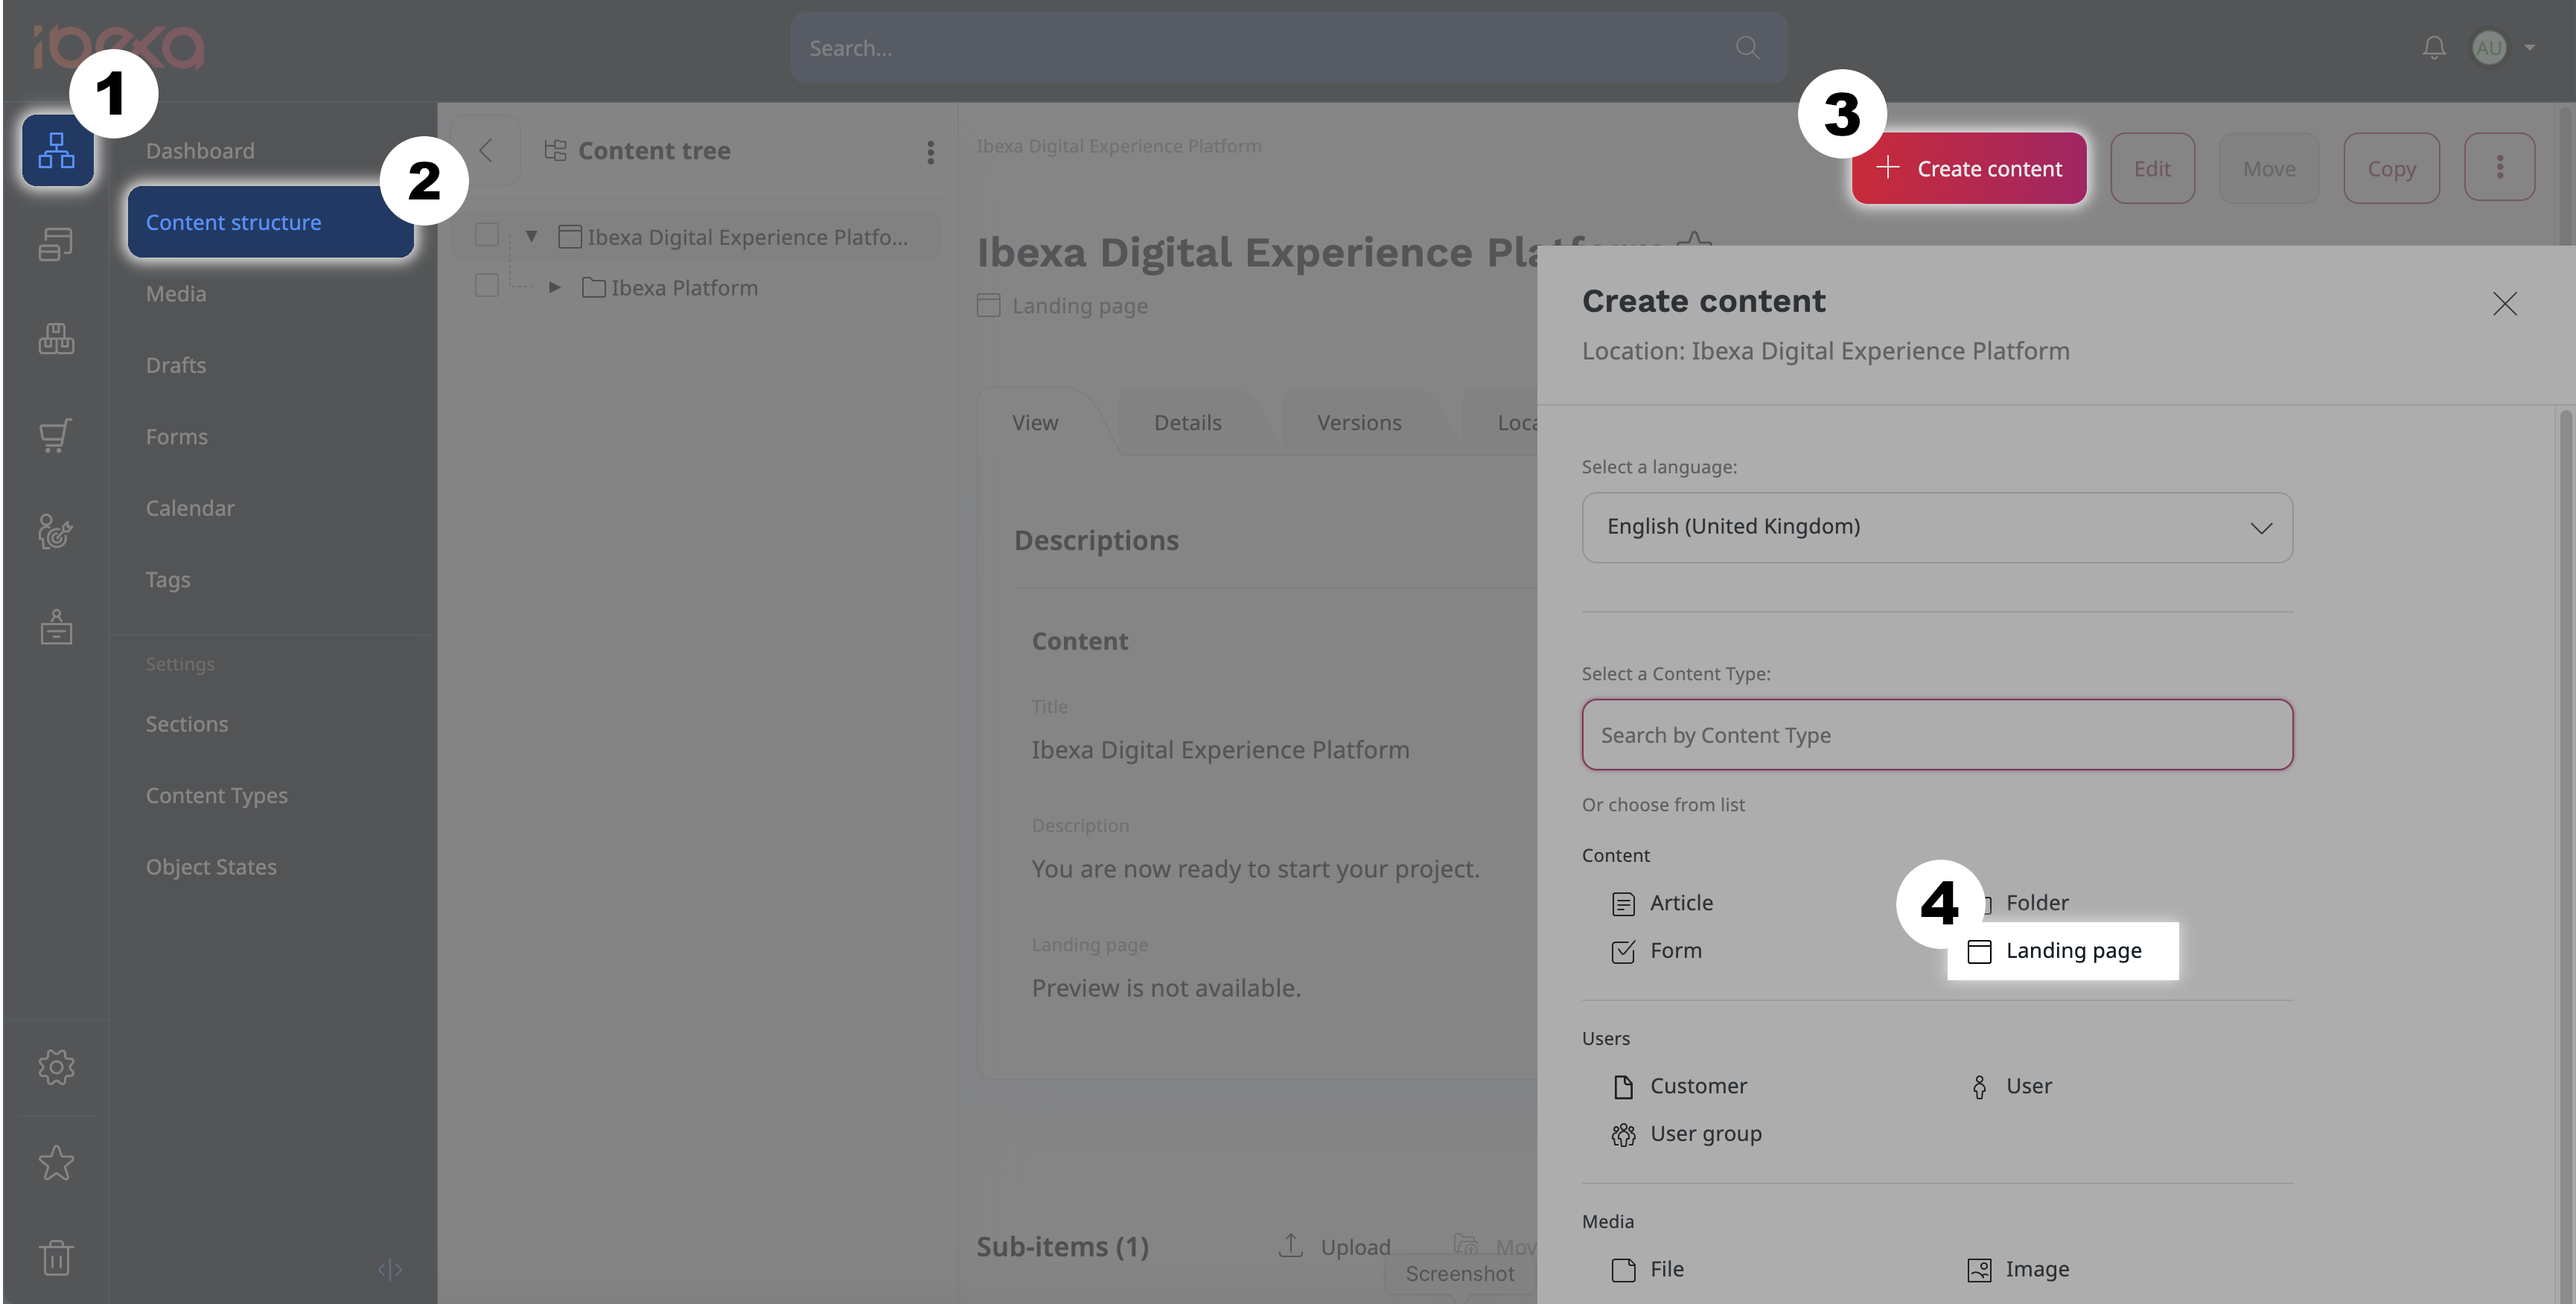
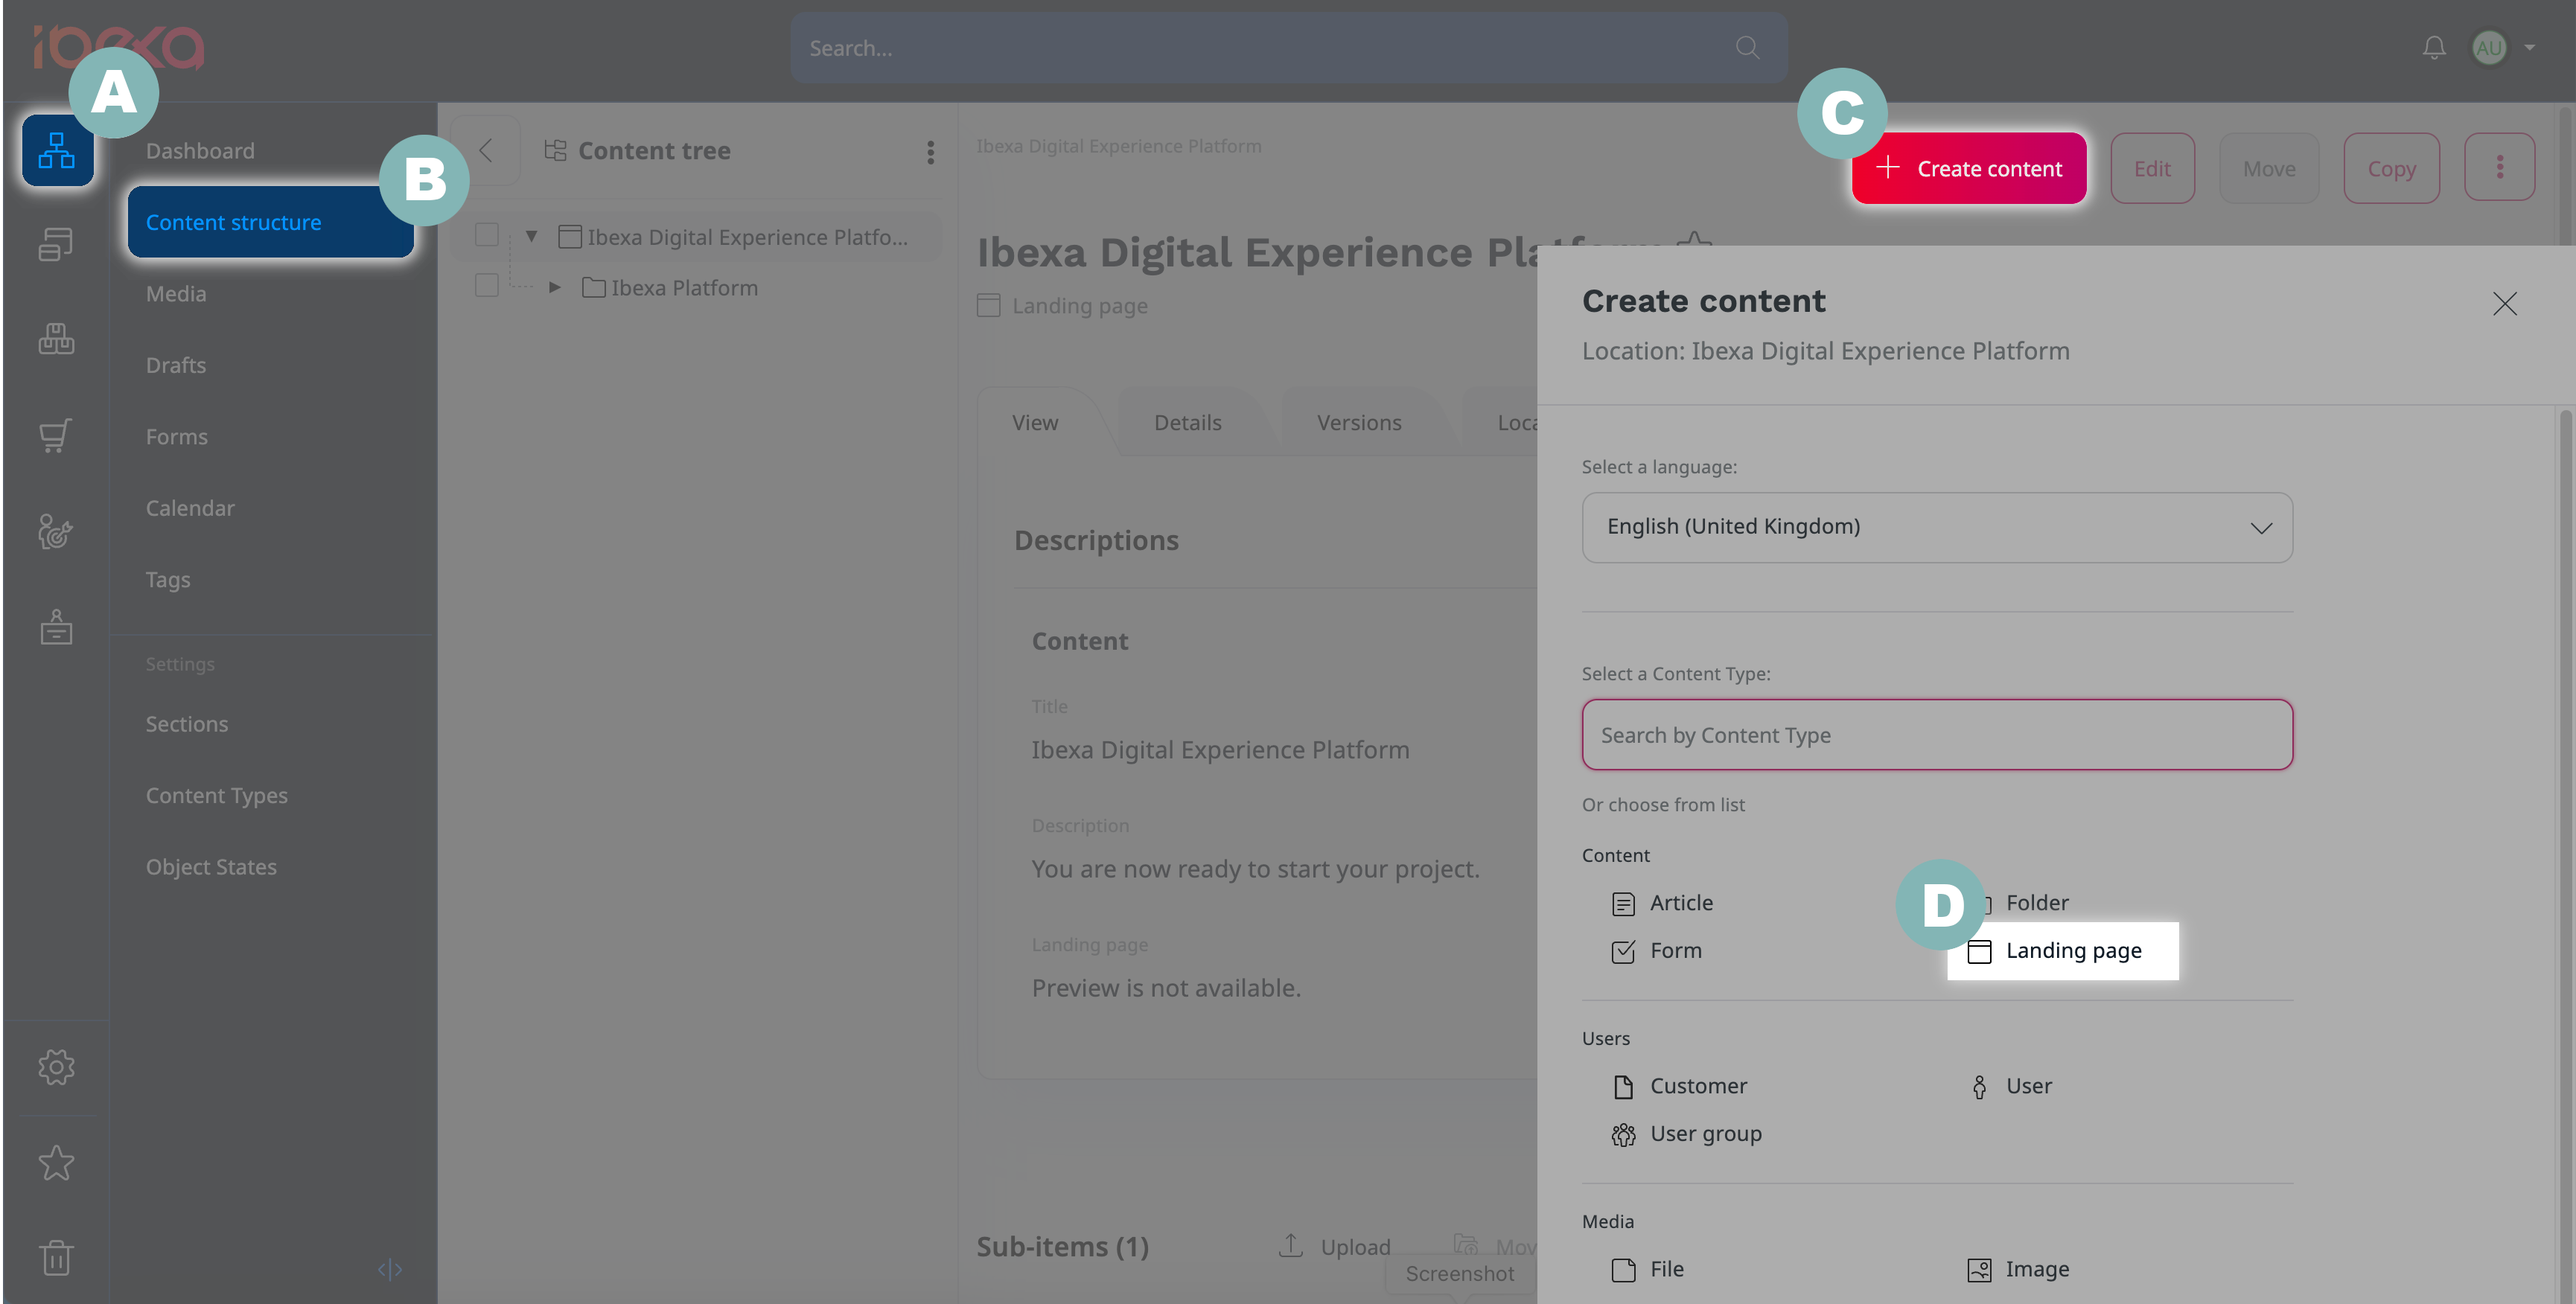
Fixes after doc-review

diff --git a/docs/content_management/pages/page_builder_guide.md b/docs/content_management/pages/page_builder_guide.md
@@ -7,7 +7,7 @@ edition: experience
 
 ## What is page
 
-[Page](pages.md) is a block-based type of content. You can create it and modify with a visual drag-and-drop editor - Page Builder.
+[Page](pages.md) is a block-based type of content. You can create and modify it with a visual drag-and-drop editor - Page Builder.
 Page is divided into zones into which you can drop various dynamic blocks.
 By editing pages you can customize the layout and content of your website.
 
@@ -15,22 +15,20 @@ By editing pages you can customize the layout and content of your website.
 
 To create a new page:
 
-1\. In the upper toolbar click **Content**.
+A\. In the left panel, go to **Content**.
 
-2\. Select **Content structure**.
+B\. Select **Content structure**.
 
-3\. On the right-side toolbar, click **Create content** and from the list of Content items select Landing Page.
+C\. On the right-side toolbar, click **Create content** and from the list of Content items select **Landing Page**.
 
-4\. Select the layout and click **Create**.
+D\. Select the layout and click **Create**.
 
 ![Create page](create_page.png)
-
-You can also add a new page in the Page Builder. Check 'Create page in Page Builder' section below.
 
 ### Edit page
 
 You can edit any existing page by using Page Builder. To do it, in the Back Office go to **Content** and select **Content structure**.
-Then, from the Content Tree choose the page that you want to edit and click **Edit**.
+Then, from the Content Tree choose the page and click **Edit**.
 
 ## What is Page Builder
 
@@ -85,7 +83,7 @@ F. Saving options
 |Save draft|Save the page draft*.|
 |Delete draft|Delete the page draft.|
 
-*To help you preserve your work, system saves drafts of Content items automatically. For more information, see [Autosave](https://doc.ibexa.co/projects/userguide/en/master/content_management/content_versions/#autosave).
+*To help you preserve your work, system saves drafts of Content items automatically. For more information, see [Autosave]([[= user_doc =]]/content_management/content_versions/#autosave).
 
 Page Builder has two main views that you can use while creating a page:
 
@@ -93,20 +91,13 @@ Page Builder has two main views that you can use while creating a page:
 
 ![Elements toolbar](elements_toolbar.png)
 
-- Structure view - shows a structure of the page, including its division into zones and the blocks that it contains. It follows the behavior of the content tree. Structure view has ability to reorder blocks using drag and drop.
+- Structure view - shows a structure of the page, including its division into zones and the blocks that it contains. It follows the behavior of the Content Tree. Structure view has ability to reorder blocks using drag and drop.
 
 ![Structure view](structure_view.png)
 
-#### Create page in Page Builder
-
-To open the Page Builder, click **Site** and select a website from the list that appears next to the List icon.
-On the Page Builder toolbar click the plus button and from the list select Landing Page.
-
 ##### Choose layout
 
-For newly created Page you can choose a [layout](https://doc.ibexa.co/projects/userguide/en/latest/content_management/configure_ct_field_settings/#available-page-layouts) which defines the available zones.
-
-![Switch layout](switch_layout_window.png)
+For newly created Page you can choose a [layout]([[= user_doc =]]/content_management/configure_ct_field_settings/#available-page-layouts) which defines the available zones.
 
 Applying a layout divides the Page into the defined zones. The zones are placeholders for Content items.
 
@@ -116,25 +107,27 @@ Now you are ready to add blocks of content to the Page.
 The page layouts that an editor has access to are up to you to choose.
 In the `Select layouts` section, you can select layouts that you want to be available for the Page.
 
+![Switch layout](switch_layout_window.png)
+
 The default, built-in Page layout has only one zone, but developers can create other layouts in configuration.
-For more information, see [Configure layout](https://doc.ibexa.co/en/latest/templating/render_content/render_page/#configure-layout).
+For more information, see [Configure layout](render_page.md#configure-layout).
 
 #### Add blocks
 
 To customize your page in Page Builder you need to add blocks.
 To do it, access Elements toolbar, drag page block that you want to use and drop it on the empty place on a drop zone.
 
-When you add a new block to the drop zone, before you drop it, a blue line appears  - it helps you see the position of the newly added block in relation to other, already added blocks.
+When you add a new block to the drop zone, drop it in the blue highlighted area. Before you drop it, a bold line appears  - it helps you see the position of the newly added block in relation to other, already added blocks.
 
 ![Drop zone line](drop_zone_line.png)
 
 Ready-to-use blocks available in [[= product_name =]] have their own, unique functions, but you can also [add your own, custom blocks](create_custom_page_block.md). All available tools and settings, that Page Builder comes with, enable you to customize the content appearing on the page.
 
-You can check all ready-to-use blocks available in Page Builder in User Documentation, [Block reference page](https://doc.ibexa.co/projects/userguide/en/latest/content_management/block_reference/).
+You can check all ready-to-use blocks available in Page Builder in User Documentation, [Block reference page]([[= user_doc =]]/content_management/block_reference/).
 
 #### Work with blocks
 
-Working with blocks is intuitive. You don't have to worry about placing blocks in the proper place from the start - you can reorder the at any time.
+Working with blocks is intuitive. You don't have to worry about placing blocks in the proper place from the start - you can reorder them at any time.
 You can reorder blocks in a few ways:
 
 - drag and drop block in the desired location on a drop zone
@@ -152,53 +145,55 @@ Available settings are:
 - Move up - allows you to change position of the block on the page by moving it up
 - Move down - allows you to change position of the block on the page by moving it down
 - Configuration - allows you to access configuration window
-- Duplicate - duplicates existing block by creating its copy
+- Duplicate - duplicates a block with its settings, by creating a copy of it that appears below the original block
 - Refresh - refreshes preview of the block
 - Delete - deletes existing block
 
 #### Schedule content
 
-Page Builder comes with a Scheduler - is a tool that allows you to schedule content publication.
+Page Builder comes with a Scheduler, it allows you to schedule content appearance.
 
-You can schedule to be published, or hidden in Page Builder in two ways with:
+You can schedule content to be revealed, or hidden in Page Builder in two ways with:
 
 - **Scheduler tab** - it's available in the configuration of all Page blocks. In this tab you can set the date and time when the block becomes visible and when it disappears from a Page.
 
 ![Scheduler tab](scheduler_tab.png)
 
-- **Content Scheduler** - it's one of the block available in Page Builder Elements menu. To proceed with the schedule, go to **Basic** tab of the block, then click **Select contennt** and confirm your choice, and set date and time in the Content airtime settings window.
+- **Content Scheduler** - it's one of the blocks available in Page Builder Elements menu. To proceed with the schedule, go to **Basic** tab of the block, then click **Select content** and confirm your choice. Then set date and time in the **Content airtime settings** window.
 
 ![Content Scheduler](content_scheduler.png)
 
-For more information, see [Schedule publication](https://doc.ibexa.co/projects/userguide/en/latest/content_management/schedule_publishing/).
+For more information, see [Schedule publication]([[= user_doc =]]/content_management/schedule_publishing/).
 
 ## Benefits
 
 ### Manage your pages without technical skills
 
 Thanks to intuitive and plain Page Builder interface, you can create and manage your website without the need of having advanced technical skills.
-Drag-and-drop elements toolbar, separated page zones and transparent sections - these are the elements that make working with Page Builder really intuitive and quick.
+Elements toolbar, visible page zones and Structure view - these are the elements that make working with Page Builder really intuitive and quick.
 
 ### Self schedule content, special offers and campaigns
 
-One of the most important tool that Page Builder offers, is a Scheduler. It allows you to set and schedule specific date and time, when content has to be published. In result, you can plan timeline of your new publications, without the need of manual publishing each of them.
+One of the most important tools that Page Builder offers, is a Scheduler. It allows you to set and schedule a specific date and time for the content to be published or hidden. As a result, you can manage timeline of publications, without the need of manual publishing or hiding each of them.
 
 ### Create high-converting and fully-targeted landing pages
 
-Page Builder allows you to create highly customizable websites. You can build modifiable and targeted landing pages, that meet your needs.
+Page Builder allows you to create highly customizable websites. You can build modifiable and targeted landing pages that meet your needs.
 Each dynamic blocks has its own settings, properties and design that you can set up in your way to customize the content appearing on the page.
-Additionaly, if you feel comfortable with your technical skills, you can configure your own elements, for example, new customized layout, or block.
+Additionaly, if you feel comfortable with your technical skills, you can configure your own elements, for example, a new customized layout, or block.
 
 ### Increase sales with highly personalized campaigns
 
-Personalized campaigns are one of the factors that can increase your sales. With Page Builder you can achieve it, by using customization and time Scheduler.
-Anytime you can edit your page and change the position of specific block to make it more visible. What's more, Page Builder offers you ready-to-use page blocks that can help to create content tailored to each individual customer:
+Personalized campaigns are one of the factors that can increase your sales. 
+With Page Builder you can achieve it, by using customization and time Scheduler.
+Anytime you can edit your page and change a position of a block to enhance visibility. 
+Additionaly, Page Builder offers you a selection of ready-to-use page blocks that can help you to create content tailored to each individual customer:
 
 A. **Default** blocks:
 
 - Dynamic targeting - embeds recommended items based on the Segment the user belongs to.
 - Personalized - displays a list of Content items/products that are recommended to end users when specific scenarios are triggered.
-- Targeting - embeds an Content item based on the Segment the user belongs to.
+- Targeting - embeds a Content item based on the Segment the user belongs to.
 
 B. **PIM** blocks:
 
